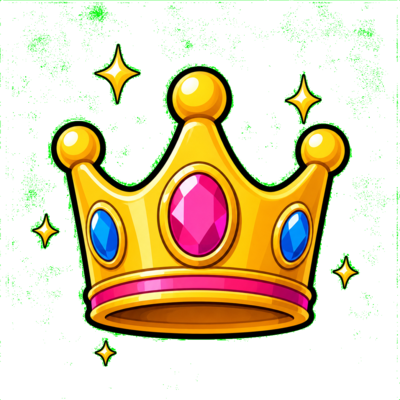
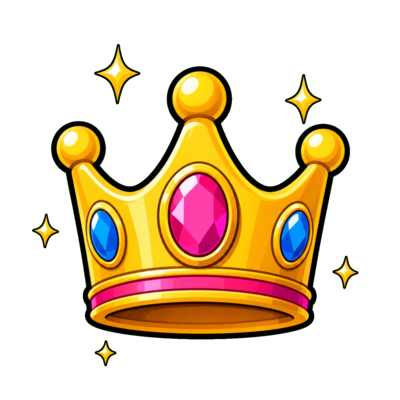
feat(tutorial): ฉากสอนเล่น 5 หน้า + มงกุฎจ่าฝูง + ไอคอนลูกเต๋า
- TutorialScene: เป่ายิ้งฉุบคืออะไร → ตั้งชุดมูฟ → ตัวชี้เดินยังไง (2 หน้า)
  → เลือกเองหรือสุ่ม → สตรีค · เปิดจากปุ่ม "สอนเล่น" แถบล่างหน้าแรก
  ข้อความดึงเรทจริงจาก config มาโชว์ ปรับเรทในตั้งค่าแล้วคำสอนเปลี่ยนตาม
- ภาพใหม่จาก Codex 5 ใบ: crown · icon-dice · tutorial-moveset/pointer/duel
- tools/chromakey.sh — คีย์พื้นเขียว + despill ขอบเขียวที่ Codex ทิ้งไว้
  (ตรวจแล้วเหลือพิกเซลเขียวเกิน 0 พิกเซล จากเดิม ~7,000)
- มงกุฎติดอันดับ 1 ในหน้า ranking · ปุ่มสุ่มคู่แข่งใช้ไอคอนลูกเต๋าจริงแทน 🎲

verify: verify-flow เดิน 5 หน้าสอนเล่น เช็ค naturalWidth ทุกใบ = โหลดขึ้นครบ
· ทุกจอฟิตจอ ไม่มี overflow · เทส 123/123

Claude-Session: https://claude.ai/code/session_01Y1VNKXszF6y6EKaZyufX7R

diff --git a/app/src/features/tutorial/TutorialScene.tsx b/app/src/features/tutorial/TutorialScene.tsx
@@ -1,0 +1,115 @@
+import { useState } from "react";
+import { gameAssets } from "../../data/assets";
+import { useGameStore } from "../../state/useGameStore";
+import { Button } from "../../ui/Button";
+import { MoveIcon } from "../../ui/MoveIcon";
+
+interface Step {
+  title: string;
+  lines: string[];
+  art: string;
+  /** โชว์แถบไอคอนมูฟ 3 อันใต้ภาพ (ใช้ตอนอธิบายชุดมูฟ/ตัวชี้) */
+  showMoves?: boolean;
+}
+
+/**
+ * สอนเล่น 5 หน้า — กลไก "ตัวชี้ชุดมูฟ" ซับซ้อนที่สุด จึงกินไปสองหน้า
+ * ข้อความเขียนสั้นๆ อ่านจบใน 5 วิ ต่อหน้า · เปิดจากหน้าแรกได้ตลอด ไม่บังคับดู
+ */
+export function TutorialScene({ onDone }: { onDone: () => void }) {
+  const { state } = useGameStore();
+  const [index, setIndex] = useState(0);
+
+  const steps: Step[] = [
+    {
+      title: "เป่ายิ้งฉุบ ชิงคะแนนกันทั้งออฟฟิศ",
+      lines: [
+        `จ่าย ${state.config.coinCost} เหรียญให้ซุป = ได้ 1 รอบ`,
+        "ในรอบนึงท้าคนอื่นดวลได้ 1 ครั้ง ชนะได้คะแนน แพ้เสียคะแนน",
+      ],
+      art: gameAssets.tutorialDuel,
+    },
+    {
+      title: "ตั้งชุดมูฟ 3 ช่องไว้ล่วงหน้า",
+      lines: [
+        "ก่อนลงสังเวียนต้องตั้ง เป่า1 / เป่า2 / เป่า3 (ซ้ำกันได้)",
+        "ชุดมูฟเป็นความลับ ไม่มีใครเห็นจนกว่าจะจบซีซั่น",
+      ],
+      art: gameAssets.tutorialMoveSet,
+      showMoves: true,
+    },
+    {
+      title: "เวลาโดนท้า ระบบออกมูฟแทนคุณ",
+      lines: [
+        "ตัวชี้จะออกมูฟจากช่องที่ชี้อยู่ แล้วเลื่อนไปช่องถัดไป ครบ 3 ช่องก็วนกลับช่องแรก",
+        "ตัวชี้ผูกกับตัวคุณ ไม่ได้ผูกกับคู่ไหน — โดนท้าบ่อย ตัวชี้ยิ่งเดินไว",
+      ],
+      art: gameAssets.tutorialPointer,
+      showMoves: true,
+    },
+    {
+      title: "เลือกคู่แข่งเอง หรือกดสุ่ม?",
+      lines: [
+        `เลือกเอง: ชนะ +${state.config.pickedRates.win} · แพ้ ${state.config.pickedRates.lose}`,
+        `กดสุ่ม: ชนะ +${state.config.randomRates.win} · แพ้ ${state.config.randomRates.lose} — เสี่ยงกว่า จึงคุ้มกว่า`,
+      ],
+      art: gameAssets.iconDice,
+    },
+    {
+      title: "ชนะติดกันยิ่งได้เยอะ",
+      lines: [
+        `ชนะติดกันทุก 1 ครั้ง คะแนนชนะคูณเพิ่ม ${state.config.streakStepPercent}%`,
+        "แพ้หรือเสมอเมื่อไหร่ สตรีคกลับไปเริ่มใหม่ · จ่าฝูงตอนจบซีซั่นคือแชมป์",
+      ],
+      art: gameAssets.crown,
+    },
+  ];
+
+  const step = steps[index];
+  const last = index === steps.length - 1;
+
+  return (
+    <section className="scene">
+      <div className="panel tutorial">
+        <p className="eyebrow">
+          สอนเล่น {index + 1}/{steps.length}
+        </p>
+        <h2 className="title">{step.title}</h2>
+
+        <img className="tutorial__art" src={step.art} alt="" />
+
+        {step.showMoves && (
+          <div className="tutorial__moves">
+            {(["rock", "scissors", "paper"] as const).map((move, slot) => (
+              <span key={move} className="tutorial__slot">
+                <small>เป่า {slot + 1}</small>
+                <MoveIcon move={move} size={44} />
+              </span>
+            ))}
+          </div>
+        )}
+
+        <div className="tutorial__lines">
+          {step.lines.map((line) => (
+            <p key={line} className="lead">
+              {line}
+            </p>
+          ))}
+        </div>
+
+        <div className="tutorial__dots" aria-hidden="true">
+          {steps.map((one, dot) => (
+            <span key={one.title} className={`tutorial__dot${dot === index ? " is-on" : ""}`} />
+          ))}
+        </div>
+
+        <div className="button-row">
+          <Button variant="ghost" onClick={() => (index === 0 ? onDone() : setIndex(index - 1))}>
+            {index === 0 ? "ปิด" : "← ก่อนหน้า"}
+          </Button>
+          <Button onClick={() => (last ? onDone() : setIndex(index + 1))}>{last ? "เข้าใจแล้ว!" : "ถัดไป →"}</Button>
+        </div>
+      </div>
+    </section>
+  );
+}

diff --git a/app/src/styles/global.css b/app/src/styles/global.css
@@ -943,6 +943,53 @@ img {
 .reveal-row__move { display: flex; flex-direction: column; align-items: center; }
 .reveal-row__wl { opacity: 0.85; font-weight: 700; }
 
+/* มงกุฎจ่าฝูง + ไอคอนในปุ่ม */
+.rank-row__crown {
+  width: clamp(20px, 3.2dvh, 30px);
+  height: auto;
+  vertical-align: middle;
+  margin-right: 3px;
+  filter: drop-shadow(0 2px 0 rgba(0, 0, 0, 0.45));
+}
+.btn__icon {
+  width: clamp(18px, 2.8dvh, 26px);
+  height: auto;
+  vertical-align: -0.22em;
+  margin-right: 6px;
+}
+
+/* ── สอนเล่น ─────────────────────────────────────────────── */
+.tutorial { align-items: center; text-align: center; min-height: 0; }
+.tutorial__art {
+  width: min(560px, 100%);
+  max-height: 34dvh;
+  object-fit: contain;
+  filter: drop-shadow(0 10px 0 rgba(0, 0, 0, 0.35));
+  animation: art-fade 0.35s ease;
+}
+.tutorial__moves { display: flex; gap: clamp(10px, 2.4vw, 30px); }
+.tutorial__slot {
+  display: flex;
+  flex-direction: column;
+  align-items: center;
+  gap: 2px;
+  font-weight: 800;
+}
+.tutorial__slot small { color: var(--spark); font-size: clamp(10px, 1.5dvh, 13px); }
+
+.tutorial__lines { display: flex; flex-direction: column; gap: 4px; }
+.tutorial__lines .lead { font-size: clamp(13px, 2dvh, 18px); }
+
+.tutorial__dots { display: flex; gap: 8px; }
+.tutorial__dot {
+  width: 10px;
+  height: 10px;
+  border-radius: 999px;
+  border: 3px solid var(--ink);
+  background: rgba(255, 255, 255, 0.35);
+}
+.tutorial__dot.is-on { background: var(--spark); }
+
 /* ── หน้าปรับค่าเกม ──────────────────────────────────────── */
 .config { min-height: 0; }
 .config__body {

diff --git a/app/src/data/assets.ts b/app/src/data/assets.ts
@@ -1,7 +1,7 @@
 // ที่อยู่ของไฟล์ภาพทั้งหมด — รวมไว้จุดเดียว เวลาได้ asset ใหม่จาก Codex แก้ที่นี่ที่เดียว
 // `?v=N` ใช้ล้าง cache ตอนเปลี่ยนรูป (บทเรียนเกมที่ 1: iPad ชอบจำรูปเก่า)
 const BASE = import.meta.env.BASE_URL;
-const V = "6";
+const V = "7";
 
 function asset(path: string): string {
   return `${BASE}assets/${path}?v=${V}`;
@@ -29,6 +29,8 @@ export const gameAssets = {
   iconSettings: asset("icons/icon-settings.webp"),
   iconTutorial: asset("icons/icon-tutorial.webp"),
   avatarPlaceholder: asset("icons/avatar-placeholder.webp"),
+  crown: asset("icons/crown.webp"),
+  iconDice: asset("icons/icon-dice.webp"),
 
   // ตัวละคร (คู่ปรับประจำเกม)
   catSmug: asset("chars/cat-smug.webp"),
@@ -52,4 +54,9 @@ export const gameAssets = {
   bgMoveSet: asset("scenes/bg-moveset.webp"),
   bgPrep: asset("scenes/bg-prep.webp"),
   bgResult: asset("scenes/bg-result.webp"),
+
+  // ภาพประกอบสอนเล่น
+  tutorialMoveSet: asset("scenes/tutorial-moveset.webp"),
+  tutorialPointer: asset("scenes/tutorial-pointer.webp"),
+  tutorialDuel: asset("scenes/tutorial-duel.webp"),
 } as const;

diff --git a/app/src/App.tsx b/app/src/App.tsx
@@ -19,6 +19,7 @@ import { RankingScene } from "./features/ranking/RankingScene";
 import { SeasonEndScene } from "./features/season/SeasonEndScene";
 import { SeasonRecordsScene } from "./features/season/SeasonRecordsScene";
 import { ConfigScene } from "./features/season/ConfigScene";
+import { TutorialScene } from "./features/tutorial/TutorialScene";
 import { SettingsScene } from "./features/season/SettingsScene";
 import { AwayRecapScene } from "./features/round/AwayRecapScene";
 import { PlayerPickScene } from "./features/round/PlayerPickScene";
@@ -44,6 +45,7 @@ type Phase =
   | "settings"
   | "seasonEnd"
   | "seasonRecords"
+  | "tutorial"
   | "gameConfig"
   | "players";
 
@@ -195,6 +197,7 @@ export function App() {
           onOffRound={() => setPhase("offRound")}
           onPlayers={() => setPhase("players")}
           onSettings={() => setPhase("settings")}
+          onTutorial={() => setPhase("tutorial")}
           onEnroll={() => setPhase("enrollPick")}
         />
       )}
@@ -265,6 +268,7 @@ export function App() {
           onCancel={() => setPhase("roundMenu")}
           extraAction={{
             label: "สุ่มคู่แข่ง",
+            icon: gameAssets.iconDice,
             onClick: rollOpponent,
             disabled: challengeableIds(state, activeId).length === 0,
           }}
@@ -324,6 +328,8 @@ export function App() {
       {phase === "seasonRecords" && <SeasonRecordsScene onBack={() => setPhase("settings")} />}
 
       {phase === "gameConfig" && <ConfigScene onBack={() => setPhase("settings")} />}
+
+      {phase === "tutorial" && <TutorialScene onDone={() => setPhase("home")} />}
 
       {phase === "ranking" && <RankingScene onBack={() => setPhase(rankingBack)} />}
     </div>

diff --git a/app/src/features/ranking/RankingScene.tsx b/app/src/features/ranking/RankingScene.tsx
@@ -1,3 +1,4 @@
+import { gameAssets } from "../../data/assets";
 import { useState } from "react";
 import { hasPlayed, rankPlayers, totalMoveCount, visibleMoveRates } from "../../domain/rankingEngine";
 import { formatTenths } from "../../domain/scoreEngine";
@@ -36,7 +37,10 @@ export function RankingScene({ onBack }: { onBack: () => void }) {
                   disabled={!canOpen}
                   onClick={() => setOpenId(isOpen ? null : row.player.id)}
                 >
-                  <span className="rank-row__rank">{row.rank}</span>
+                  <span className="rank-row__rank">
+                    {row.rank === 1 && <img className="rank-row__crown" src={gameAssets.crown} alt="จ่าฝูง" />}
+                    {row.rank}
+                  </span>
                   {row.player.imageUrl ? (
                     <img className="rank-row__photo" src={row.player.imageUrl} alt="" />
                   ) : (

diff --git a/app/src/features/home/HomeScene.tsx b/app/src/features/home/HomeScene.tsx
@@ -12,6 +12,7 @@ interface Props {
   onOffRound: () => void;
   onPlayers: () => void;
   onSettings: () => void;
+  onTutorial: () => void;
   onEnroll: () => void;
 }
 
@@ -19,7 +20,7 @@ interface Props {
  * หน้าแรก — โครงเดียวกับเกมสายลับ
  * โลโก้ย่อไปมุมซ้ายบน · เม็ดยาสถานะกลางจอ · ปุ่มหลักเด่นตัวเดียว · dock ล่าง
  */
-export function HomeScene({ onStartRound, onRanking, onOffRound, onPlayers, onSettings, onEnroll }: Props) {
+export function HomeScene({ onStartRound, onRanking, onOffRound, onPlayers, onSettings, onTutorial, onEnroll }: Props) {
   const { state } = useGameStore();
   // จ่าฝูง = คนที่เคยแข่งและอันดับ 1 (ไม่ใช่ใครก็ได้ที่ 30 แต้ม)
   const leader = rankPlayers(state.players.filter(hasPlayed))[0];
@@ -78,6 +79,7 @@ export function HomeScene({ onStartRound, onRanking, onOffRound, onPlayers, onSe
             disabledNote: "ต้องมีคนลงสังเวียนอย่างน้อย 2 คน",
           },
           { key: "ranking", label: "อันดับ", icon: gameAssets.iconRanking, short: "อันดับ", onClick: onRanking, disabled: noPlayers },
+          { key: "tutorial", label: "สอนเล่น", icon: gameAssets.iconTutorial, short: "สอน", onClick: onTutorial },
           { key: "settings", label: "ตั้งค่า", icon: gameAssets.iconSettings, short: "ตั้งค่า", onClick: onSettings },
         ]}
       />

diff --git a/app/src/features/round/PlayerPickScene.tsx b/app/src/features/round/PlayerPickScene.tsx
@@ -16,7 +16,7 @@ interface Props {
   showRank?: boolean;
   onPick: (playerId: string) => void;
   onCancel: () => void;
-  extraAction?: { label: string; onClick: () => void; disabled?: boolean };
+  extraAction?: { label: string; icon?: string; onClick: () => void; disabled?: boolean };
 }
 
 /** จอเลือกคนแบบใช้ซ้ำได้ — ใช้ทั้งเลือกผู้ท้าชิงที่จ่ายเหรียญ และเลือกคู่แข่ง */
@@ -62,6 +62,7 @@ export function PlayerPickScene({ title, lead, selectable, hidden, showRank, onP
           </Button>
           {extraAction && (
             <Button onClick={extraAction.onClick} disabled={extraAction.disabled}>
+              {extraAction.icon && <img className="btn__icon" src={extraAction.icon} alt="" />}
               {extraAction.label}
             </Button>
           )}

diff --git a/TODO-ต่อไป.md b/TODO-ต่อไป.md
@@ -27,12 +27,13 @@
 ### กลุ่ม 1: ใส่ asset ที่ sync แล้วแต่ยังไม่ wire
 - [x] ~~task #3 — ฉากเป่ายิ้งฉุบใส่ clash-spark~~ ✅
 - [x] ~~task #4 — ประกาศแชมป์ใช้ season-podium + confetti~~ ✅
-- [ ] เอา **แมว/พนักงาน** ไปใส่หน้าแรก (home) หรือจังหวะลุ้นให้มีชีวิตขึ้น
+- [x] ~~มงกุฎจ่าฝูง (อันดับ 1) + ไอคอนลูกเต๋าปุ่มสุ่ม~~ ✅
+- [ ] เอา **แมว/พนักงาน** ไปใส่หน้าแรก (home) ให้มีชีวิตขึ้น
 
 ### กลุ่ม 2: ฟีเจอร์ที่ยังขาด (เกมยังไม่ครบ)
 - [x] ~~หน้าบันทึกซีซั่นเก่า~~ ✅ (`SeasonRecordsScene`)
 - [x] ~~ปรับเรทคะแนน/เวลา ในตั้งค่า~~ ✅ (`ConfigScene` + `updateConfig` บีบค่าเข้าขอบเขต)
-- [ ] **สอนเล่น** — กลไกตัวชี้ชุดมูฟซับซ้อน คนเล่นครั้งแรกงงแน่ · ต้องออกแบบฉากก่อนบรีฟ Codex
+- [x] ~~สอนเล่น~~ ✅ `TutorialScene` 5 หน้า (ปุ่ม "สอนเล่น" ในแถบล่างหน้าแรก)
 - [x] ~~ระบบเสียง/ซาวด์~~ ✅ `src/audio/sfx.ts` — สังเคราะห์ด้วย Web Audio ล้วน ไม่มีไฟล์เสียง
       · 11 เสียง: แตะปุ่ม/ยืนยัน/เหรียญ/พุ่งเข้า/กระแทก/นับเป่ายิ้งฉุบ/เปิดมูฟ/ชนะ/แพ้/เสมอ/แชมป์
       · ปุ่มเปิด-ปิดในตั้งค่า (จำค่าใน localStorage) · ปลุก AudioContext ตอนแตะโลโก้ (กฎ iPad)
@@ -50,11 +51,14 @@
 |---|---|
 | `cat-smug/win/lose` · `employee-*` | home · สอนเล่น (ใช้ในฉากผลแล้ว) |
 
-## ⏳ asset ที่ยังต้องสั่ง Codex เจนเพิ่ม
-- `crown.webp` (B9) — จ่าฝูงหน้าแรก/อันดับ 1
-- `icon-dice.webp` (C8) — ปุ่มสุ่มคู่ต่อสู้
-- `tutorial-*.webp` — ฉากสอนเล่น (ออกแบบฉากก่อนค่อยสั่ง)
-- ⚠️ ไฟล์จาก Codex ขนาด ~1.4MB ต้องบีบก่อน sync: `cwebp -q 80 -resize 1600 0 in.webp -o out.webp`
+## 🎨 asset ครบแล้ว (2026-07-21)
+crown · icon-dice · tutorial-moveset/pointer/duel — sync เข้าเกมแล้วทั้งหมด
+
+**บทเรียนงานภาพจาก Codex:**
+- Codex เจนบน **พื้นเขียว** แล้วคีย์ออกให้ — แต่มัก **เหลือขอบเขียว (fringe)** ต้องล้างเองก่อนใช้
+- ใช้ `tools/chromakey.sh <in.png> <out.png>` (คีย์เขียว + despill) แล้วตรวจด้วยการทับพื้นม่วง:
+  `magick out.png -background "#2b1a5e" -flatten check.png`
+- แปลงเข้าเกม: `cwebp -q 88 -alpha_q 100 out.png -o app/public/assets/<หมวด>/<ชื่อ>.webp` แล้ว bump `V` ใน `data/assets.ts`
 
 ---
 